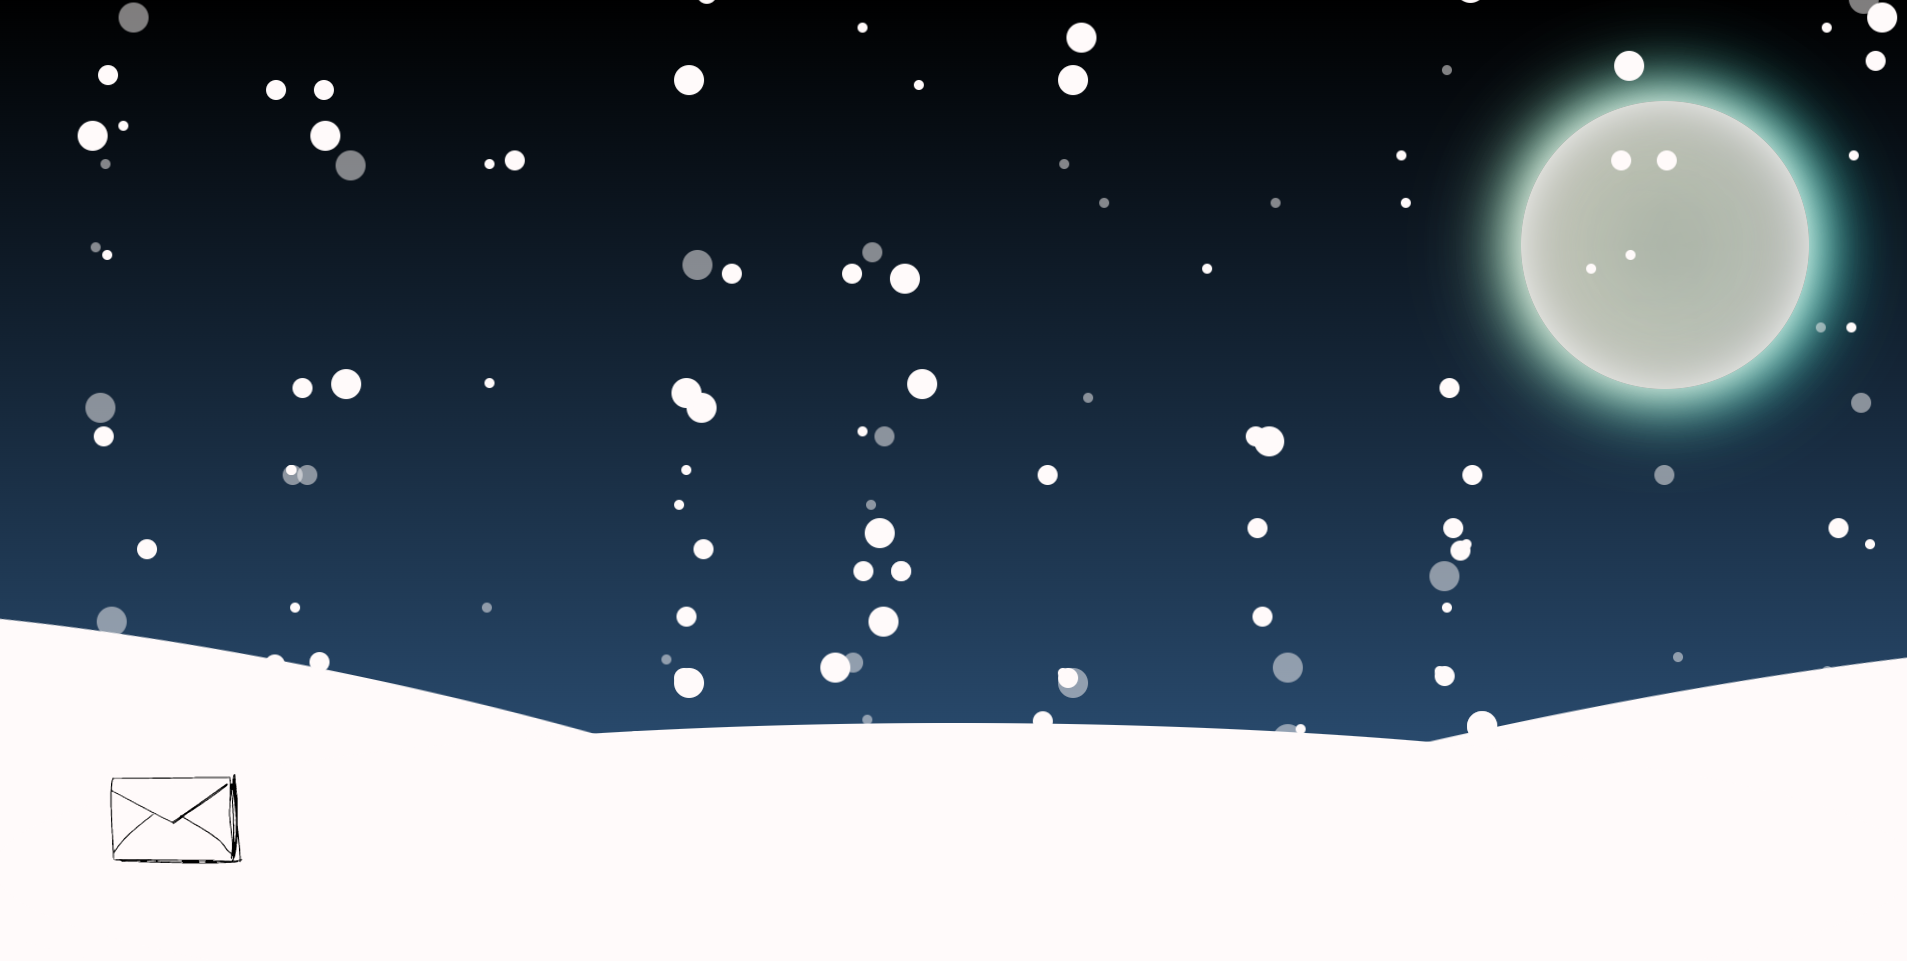
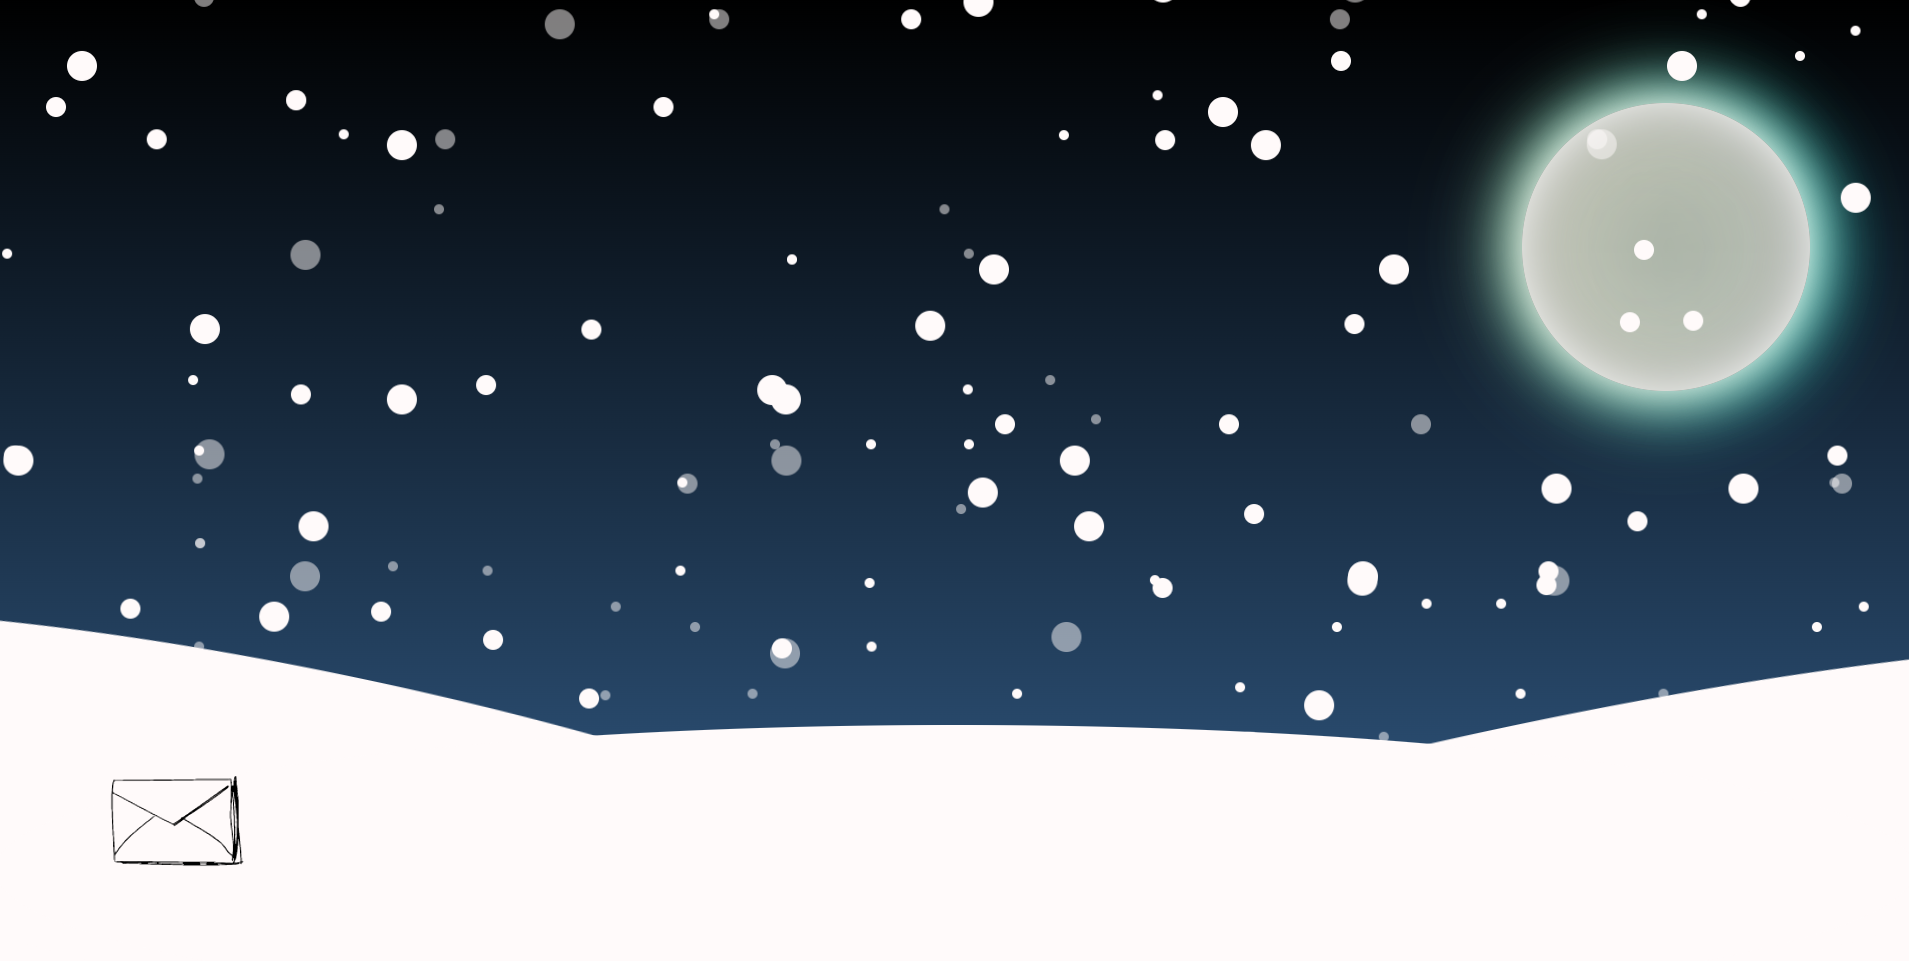
Updated REAMDE image and snow starting positions

diff --git a/assets/css/style.css b/assets/css/style.css
@@ -274,42 +274,62 @@ main {
     transform: translateY(100vh);
   }
 }
+
 .one {
   transform: translateX(5vw);
 }
-
 .two {
+  transform: translateX(10vw);
+}
+.three {
   transform: translateX(15vw);
 }
-
-.three {
+.four {
+  transform: translateX(20vw);
+}
+.five {
   transform: translateX(25vw);
 }
-
-.four {
+.six {
+  transform: translateX(30vw);
+}
+.seven {
   transform: translateX(35vw);
 }
-
-.five {
+.eight {
+  transform: translateX(40vw);
+}
+.nine {
   transform: translateX(45vw);
 }
-
-.six {
+.ten {
+  transform: translateX(50vw);
+}
+.eleven {
   transform: translateX(55vw);
 }
-
-.seven {
+.twelve {
+  transform: translateX(60vw);
+}
+.thirteen {
   transform: translateX(65vw);
 }
-
-.eight {
+.fourteen {
+  transform: translateX(70vw);
+}
+.fifteen {
   transform: translateX(75vw);
 }
-
-.nine {
+.sixteen {
+  transform: translateX(80vw);
+}
+.seventeen {
   transform: translateX(85vw);
 }
-.ten {
+.eighteen {
+  transform: translateX(90vw);
+}
+.nineteen {
   transform: translateX(95vw);
 }
 

diff --git a/assets/js/script.js b/assets/js/script.js
@@ -16,6 +16,15 @@ var snowStartingPositionArr = [
   "eight",
   "nine",
   "ten",
+  "eleven",
+  "twelve",
+  "thirteen",
+  "fourteen",
+  "fifteen",
+  "sixteen",
+  "seventeen",
+  "eighteen",
+  "nineteen"
 ];
 var snowOpacityArr = ["lessOpacity", "moreOpacity", "moreOpacity"];
 var snowFallSpeedArr = ["slowest", "slow", "normal", "fast", "fastest"];
@@ -87,7 +96,7 @@ function letItSnow() {
   for (let i = 0; i < 15; i++) {
     let snowSize = snowSizeArr[Math.floor(Math.random() * 3)];
     let snowStartingPosition =
-      snowStartingPositionArr[Math.floor(Math.random() * 10)];
+      snowStartingPositionArr[Math.floor(Math.random() * 20)];
     let snowOpacity = snowOpacityArr[Math.floor(Math.random() * 3)];
     let newSnowballFallDiv = document.createElement("div");
     let newSnowballSwayDiv = document.createElement("div");
